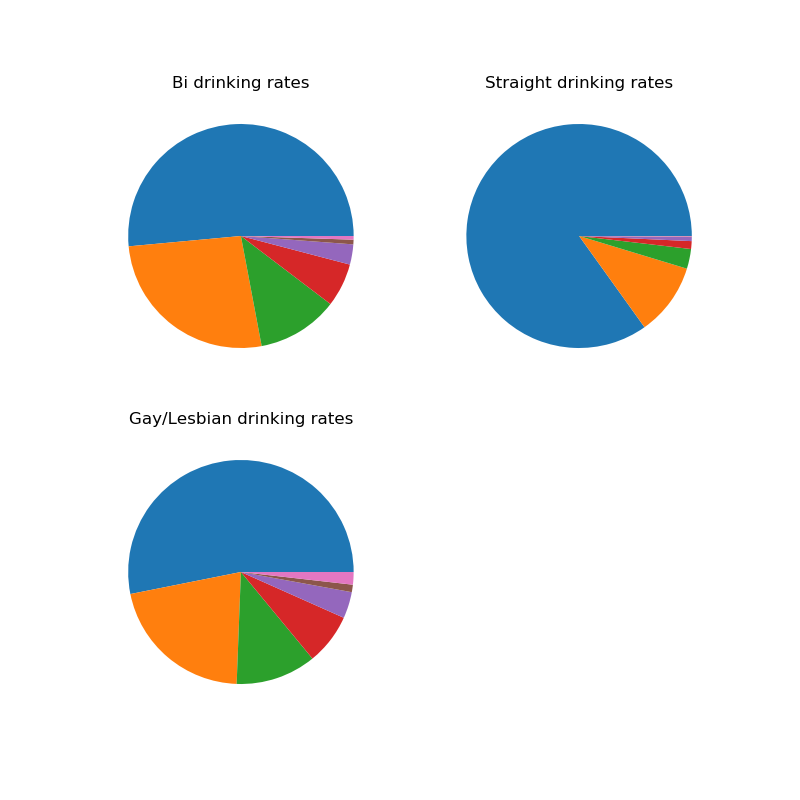
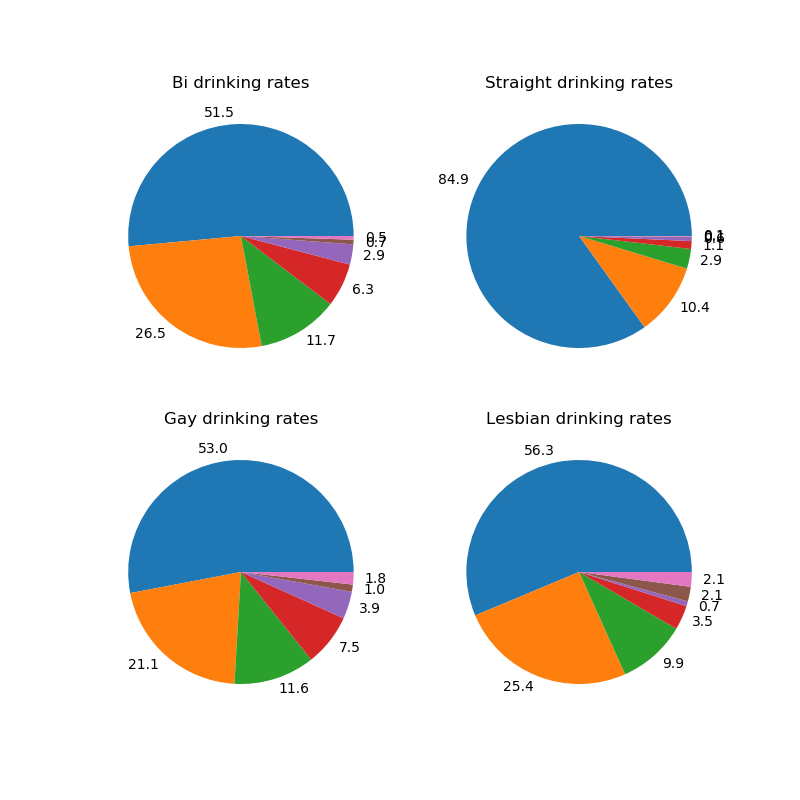
third commit

diff --git a/test.py b/test.py
@@ -13,7 +13,7 @@ df =pd.read_csv('XXH2017_YRBS_Data.dat')
 df2 =pd.read_csv('yrbs2015.dat')
 # df.info()
 ##q2: ,q66 ,q67 ,q32 ,q42
-print('updated')
+
 
 s=[]
 a=[]
@@ -68,9 +68,11 @@ bdl={1:0,2:0,3:0,4:0,5:0,6:0,7:0}
 gdl={1:0,2:0,3:0,4:0,5:0,6:0,7:0}
 sdl={1:0,2:0,3:0,4:0,5:0,6:0,7:0}
 qdl={1:0,2:0,3:0,4:0,5:0,6:0,7:0}
+ldl={1:0,2:0,3:0,4:0,5:0,6:0,7:0}
 bd=[]
 gd=[]
 sd=[]
+ld=[]
 qd=[]
 factors=[]
 st=[]
@@ -79,12 +81,18 @@ for i in range(len(s)):
         st.append(1)
     else:
         st.append(0)
-    if s[i]==2:
+    if s[i]==2 and g[i]==2:
         gdl[a[i]]+=(1)
         if a[i]>1:
             gd.append(1)
         else:
             gd.append(0)
+    elif s[i]==2 and g[i]==1:
+        ldl[a[i]]+=(1)
+        if a[i]>1:
+            ld.append(1)
+        else:
+            ld.append(0)
     elif s[i]==1:
         sdl[a[i]]+=(1)
         if a[i]>1:
@@ -103,17 +111,23 @@ for i in range(len(s)):
             qd.append(1)
         else:
             qd.append(0)
-    factors.append([g[i],s[i],ag[i]])
-gavg=0
-savg=0
-bavg=0
-for i in range(2, len(sdl)):
-    savg+=sdl[i]
-    gavg+=gdl[i]
-    bavg+=bdl[i]
-gavg=np.mean(gavg)
-savg=np.mean(savg)
-bavg=np.mean(bavg)
+    factors.append([s[i],ag[i],g[i]])
+
+def get_perc(d):
+    sm=0
+    perc=[]
+    for i in d.keys():
+        sm+=d[i]
+    for i in d.keys():
+        temp=(d[i]/sm)*100
+        perc.append(round(temp,1))
+    return perc
+pg=get_perc(gdl)
+ps=get_perc(sdl)
+pl=get_perc(ldl)
+pb=get_perc(bdl)
+pq=get_perc(qdl)
+
 
 X=np.asarray(factors)
 y=np.asarray(st)
@@ -123,12 +137,14 @@ model.fit(X_train,y_train)
 pred=model.predict(X_test)
 acc=accuracy_score(y_test, pred)
 print(acc)
+# plt.plot(y_test, pred)
 # rmse=np.sqrt(mean_squared_error(y_test, pred))
 # print(rmse)
 # probs = model.predict_proba(X_test)
 # preds = probs[:,1]
 # fpr, tpr, threshold =roc_curve(y_test, preds)
 # roc_score=round(roc_auc_score(y_test,preds),2)
+
 # meanline=np.arange(0,1.1,.1)
 # plt.plot(meanline,meanline, color='black')
 # plt.plot(fpr,tpr, label=f'Area under Curve: {roc_score}')
@@ -137,21 +153,23 @@ print(acc)
 # plt.ylabel('True Positive')
 # plt.savefig('ROC.png')
 # plt.legend()
+# # plt.show()
+# alclab=['0 days',' 1-2 days','3-5 days','6-9 days','10-19 days','20-29 days','30 days']
+# fig=plt.figure(figsize=(8,8))
+# ax1=fig.add_subplot(2,2,1)
+# ax2=fig.add_subplot(2,2,2)
+# ax3=fig.add_subplot(2,2,3)
+# ax4=fig.add_subplot(2,2,4)
+#
+# ax1.pie(bdl.values(),labels=pb)
+# ax1.set_title('Bi drinking rates')
+# ax2.pie(sdl.values(),labels=ps)
+# ax2.set_title('Straight drinking rates')
+# ax3.pie(gdl.values(),labels=pg)
+# ax3.set_title('Gay drinking rates')
+# ax4.pie(ldl.values(),labels=pl)
+# ax4.set_title('Lesbian drinking rates')
+# plt.savefig('drinking.png')
 # plt.show()
-fig=plt.figure(figsize=(8,8))
-ax1=fig.add_subplot(2,2,1)
-ax2=fig.add_subplot(2,2,2)
-ax3=fig.add_subplot(2,2,3)
-
-
-
-ax1.pie(bdl.values(),labels=None)
-ax1.set_title('Bi drinking rates')
-ax2.pie(sdl.values(),labels=None)
-ax2.set_title('Straight drinking rates')
-ax3.pie(gdl.values(),labels=None)
-ax3.set_title('Gay/Lesbian drinking rates')
-plt.savefig('drinking.png')
-plt.show()
 # gsdr=sum(gsd)/(len(gsd)-sum(gsd))
 # ssdr=sum(ssd)/(len(ssd)-sum(ssd))

diff --git a/README.md b/README.md
@@ -10,3 +10,13 @@
   My initial EDA was promising, with close to half of LGBT students having drunk alcohol in the past 30 days, as compared to only 15% of their straight peers.
 
   ![](https://github.com/MathiasStensrud/capstone_1/blob/master/drinking.png)
+  I was forced to remove approximately 1/5 of my data, as imputing it would not make sense. This was due to the highly individualized answers, and the fact that they were categorical in nature, and therefore risky to change.
+  The four categories that students identified as were Straight, Bisexual, Gay/Lesbian(which I later separated further), and questioning. All of the groups apart from the straight students had over 40% of their population drinking at least 1-2 times in the previous 30 days, as well as more than 10% of Gay and Bi students drinking 3-5 times in the last 30 days.
+
+
+
+
+#### Model Training
+  I chose to use a Logistic regression model to model my data, with the conditions of either participating in underage drinking or not. My features were age, sexuality, and gender, and my model, with cross validation, managed to reach 75% accuracy based on the conditions alone, which could be raised easily by including data about cigarette smoking.
+
+  ![](https://github.com/MathiasStensrud/capstone_1/blob/master/ROC.png)
